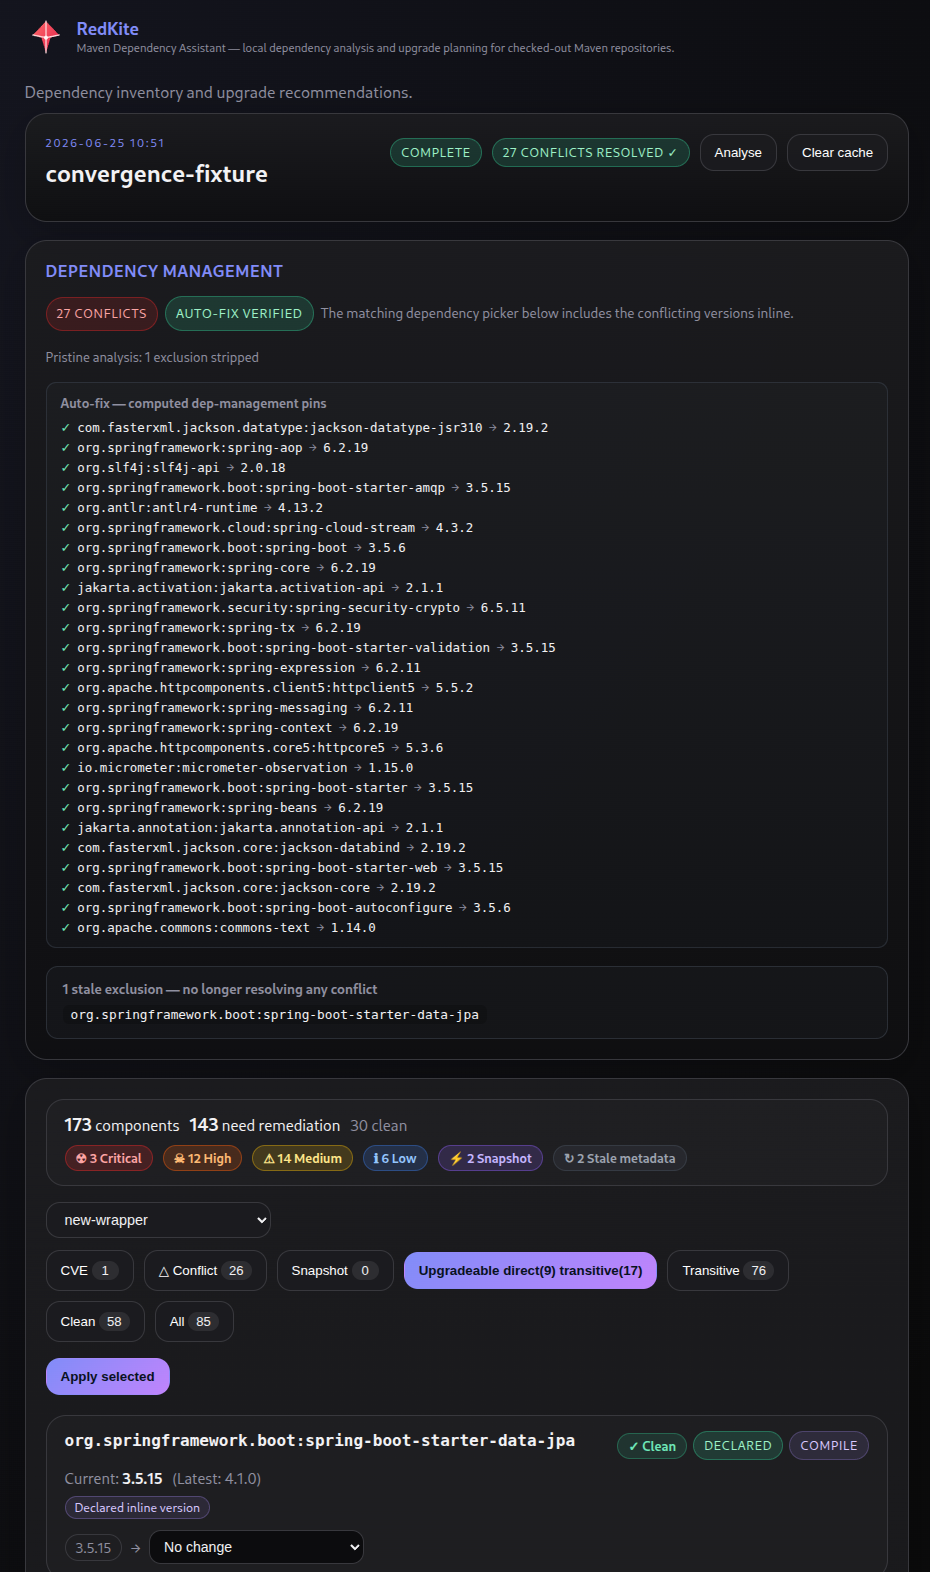
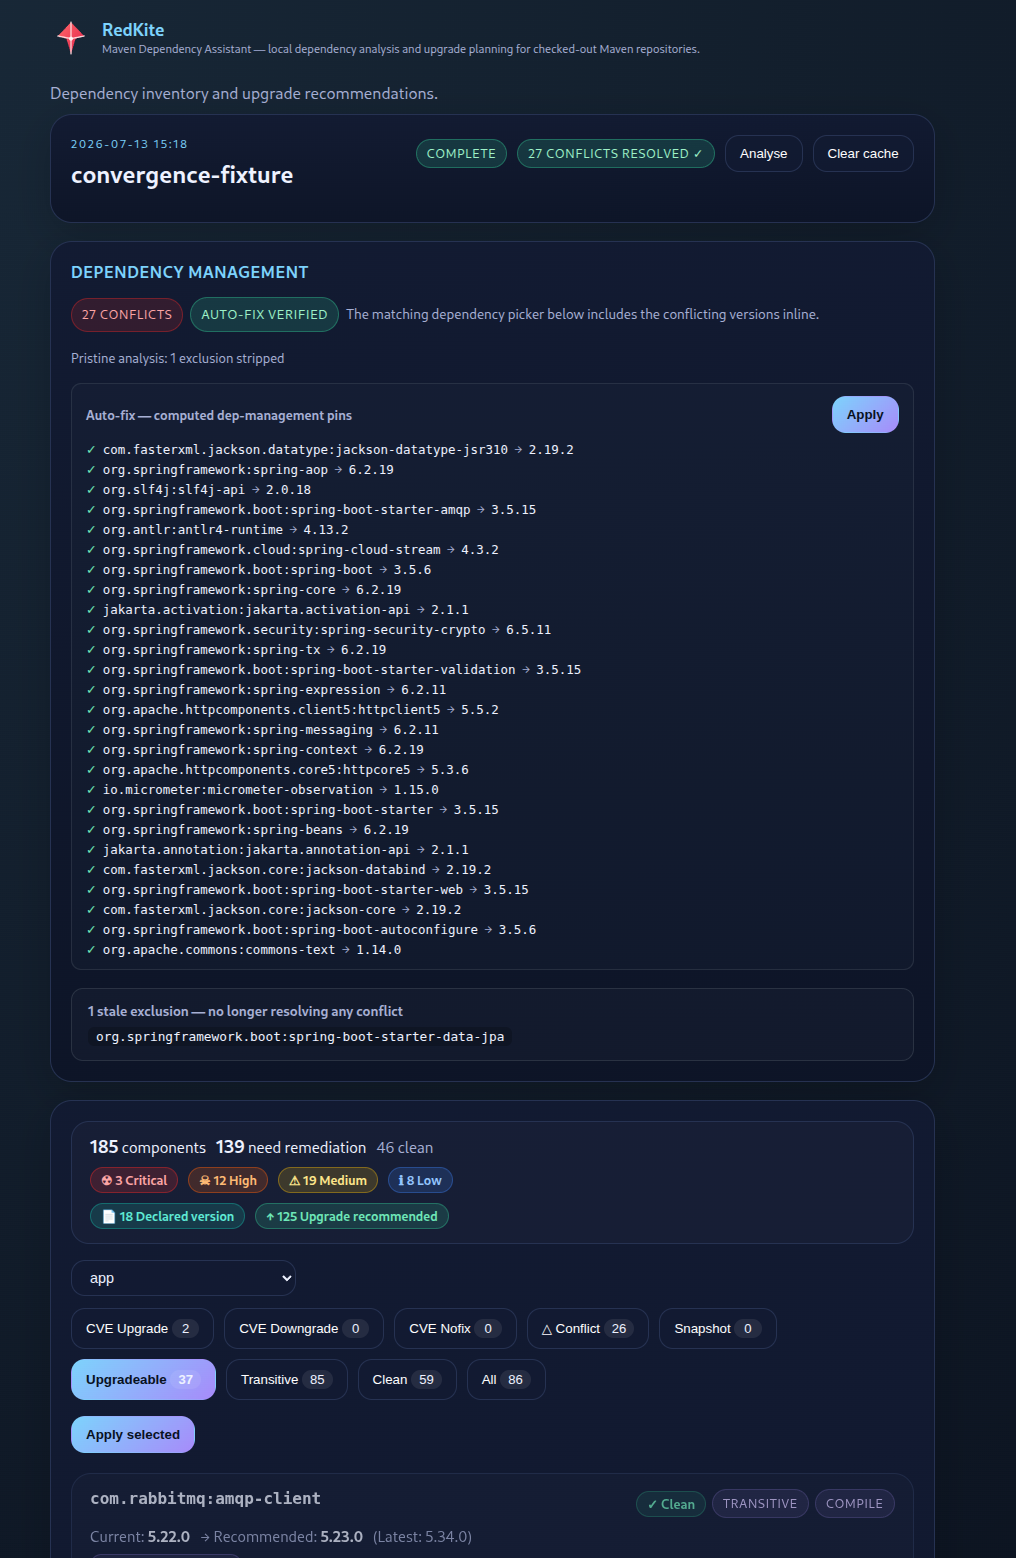
Update docs to match current CVE resolution, config page, and pin behavior
Audit README.md and DESIGN.md against actual server behavior: document
the three-tier CVE fix resolver, the /config TTL page, the renamed
dependency-management pin marker, and the schema/API additions that
came with them. Also note that conflict fixes should be applied before
general upgrades since a pin's target depends on the resolved version.

diff --git a/DESIGN.md b/DESIGN.md
@@ -26,8 +26,8 @@ Domain records and stateless classifiers. No I/O. All records implement `Seriali
 | `ScanInput` | Full project snapshot: all components, edges, POM contents, git metadata |
 | `ScanReport` | Analysis result: components enriched with metadata, recommendations, vulnerability findings |
 | `TransitiveConflictFinding` | One enforcer conflict: coordinates, resolved version, conflicting versions, raw path text |
-| `VulnerabilityFinding` | One OSV advisory: ID, severity, CVEs, affected version, fixed version |
-| `UpgradeRecommendation` | Upgrade target and reason for one component |
+| `VulnerabilityFinding` | One OSV advisory: ID, severity, CVEs, affected version, fixed version, introduced version (lower bound of the range containing the affected version — used to search for a downgrade fix) |
+| `UpgradeRecommendation` | Upgrade target and reason for one component — reason distinguishes an upgrade fix, a downgrade fix, or a best-effort lowest-severity suggestion |
 | `RemediationStatus` | Classification of what action a component needs |
 | `RemediationClassifier` | Stateless classifier: produces `RemediationStatus` from component + findings |
 | `AdvisoryClassifier` | Picks highest severity across a list of `VulnerabilityFinding` |
@@ -43,7 +43,7 @@ All Maven subprocess invocation and POM file manipulation.
 | `EnforcerRunner` | Runs `mvn enforcer:enforce` or falls back to `mvn verify -DskipTests` |
 | `EnforcerDetector` | Detects whether `maven-enforcer-plugin` is configured in the project |
 | `TempPomAnalyzer` | Creates stripped temp POM trees for pristine / phase-2 enforcer runs |
-| `RemediationApplier` | Inserts dep-management pins and exclusions into POM XML with marker comments |
+| `RemediationApplier` | Inserts dep-management pins and exclusions into POM XML with marker comments; pins always use a hardcoded `<version>`, never a `${...}` property |
 | `ValidationRunner` | Runs `mvn clean install -DskipTests -Denforcer.skip=true` (and optionally `spring-boot:run`) to validate a project build |
 | `PomModel` | In-memory representation of a parsed POM |
 | `MavenSettingsReader` | Reads `~/.m2/settings.xml` for repository URLs and credentials |
@@ -55,12 +55,13 @@ External data providers with two-level caching (in-memory + H2).
 | Class | Purpose |
 |---|---|
 | `HttpVersionMetadataProvider` | Fetches `maven-metadata.xml` from Maven Central / Artifactory |
-| `HttpVulnerabilityProvider` | Queries OSV `POST /v1/query`; caches responses for 24 hours |
-| `CacheAwareMetadataService` | Thin orchestrator delegating to both providers |
+| `HttpVulnerabilityProvider` | Queries OSV `POST /v1/query`; caches responses (TTL from `rk_config`, default 24h — see Configurable Cache TTLs) |
+| `CacheTtlConfig` | Reads a cache TTL override from `rk_config` for a given key, falling back to the compiled-in default; read fresh on every call, not cached |
+| `CacheAwareMetadataService` | Thin orchestrator delegating to both providers (currently unused — no call sites) |
 
 ### `red-kite-server`
 
-Single class `RedKiteServerMain` (~4200 lines) containing:
+Single class `RedKiteServerMain` (~5000 lines) containing:
 - HTTP server setup and request routing
 - Scan job orchestration (background thread pool)
 - `Store` inner class: all H2 persistence
@@ -140,12 +141,14 @@ Responses cached for 24 hours in memory and H2.
 
 ### Phase 3 — Upgrade Recommendation
 
-`selectUpgradeTarget()` for each component with upgrade potential:
+Components without a known CVE go through `selectUpgradeTarget()`:
 1. Prefer `latestSameMajorVersion` if it differs from current
-2. Otherwise walk `upgradePathVersions` stopping at a CVE-clean version
+2. Otherwise walk `upgradePathVersions`, picking the closest same-major-minor candidate, else the next candidate
 3. Fall back to `latestVersion` (potentially a major bump)
 
-Reason codes: `CVE_FIX` → `PATCH_AVAILABLE` → `MINOR_AVAILABLE` → `MAJOR_AVAILABLE` → `SNAPSHOT_REPLACEMENT`
+Reason codes: `PATCH_AVAILABLE` / `MINOR_AVAILABLE` / `MAJOR_AVAILABLE` / `SNAPSHOT_REPLACEMENT`
+
+Components with a known CVE go through `resolveCveFix()` instead — a three-tier resolver (see "CVE Fix Resolution" below) that tries an upgrade, then a downgrade, then a bounded best-effort search, verifying each candidate is itself free of unrelated vulnerabilities before recommending it.
 
 `ScanReport` is built and stored (base64 Java serialization in H2).
 
@@ -270,6 +273,8 @@ This produces a stepped upgrade path (e.g. `[2.14.3, 2.15.4, 2.16.2, 2.17.3, 2.1
 
 ### Upgrade Target Selection (`selectUpgradeTarget`)
 
+Used only for components with **no known CVE**.
+
 ```
 if latestSameMajorVersion > currentVersion:
     candidate = latestSameMajorVersion
@@ -278,14 +283,47 @@ else if upgradePathVersions is not empty:
 else:
     candidate = latestVersion              // possibly a major bump
 
-if candidate has CVE vulnerabilities:
-    walk upgradePathVersions looking for a CVE-clean version >= candidate
-    prefer lowest clean version that is still same-major
-
 return UpgradeRecommendation(target=candidate, reason=...)
 ```
 
-Reason codes in priority order: `CVE_FIX` > `PATCH_AVAILABLE` > `MINOR_AVAILABLE` > `MAJOR_AVAILABLE` > `SNAPSHOT_REPLACEMENT`
+Reason codes in priority order: `PATCH_AVAILABLE` > `MINOR_AVAILABLE` > `MAJOR_AVAILABLE` > `SNAPSHOT_REPLACEMENT`
+
+### CVE Fix Resolution (`resolveCveFix`)
+
+Used for components **with** a known CVE, in place of `selectUpgradeTarget`. Three tiers, tried in order, each using data already fetched for the current version (no extra network calls except tier 3):
+
+```
+Tier 1 — Upgrade (RecommendationReason.CVE_FIX):
+    requiredFix = max(fixedVersion across all findings for this component)
+    if any finding has no fixedVersion (open-ended/unbounded advisory):
+        tier fails entirely — an upgrade can never resolve an unbounded CVE
+    else:
+        candidates = available versions >= requiredFix, ascending (closest first)
+        return the first candidate verified live to have ZERO vulnerability
+        findings of its own (not just clear of the original CVE's range)
+
+Tier 2 — Downgrade (RecommendationReason.CVE_FIX_DOWNGRADE):
+    requiredBelow = min(introducedVersion across all findings)
+    if any finding has no introducedVersion (affected since inception):
+        tier fails entirely — no downgrade can escape it
+    else:
+        candidates = available versions < requiredBelow, descending (closest first)
+        return the first candidate verified live to be fully clean
+
+Tier 3 — Best effort (RecommendationReason.CVE_BEST_EFFORT):
+    candidates = nearest ~6 versions above current + nearest 3 below + the true
+                 latest release, live-queried for their own worst severity
+    upgrade candidates are checked before any downgrade candidate, so a tie
+    always resolves toward the upgrade
+    a candidate is accepted only if its severity is no worse than current's;
+    ties are broken toward whichever candidate is closest to current
+    (an upgrade tying current's severity is still worth suggesting — likely
+    carries other unrelated fixes; a downgrade tying current's severity is not,
+    since it's pure downside with no CVE benefit — downgrade ties are rejected)
+    return null if nothing at least as good as current is found (→ CVE Nofix)
+```
+
+The version dropdown's fixability status (`CVE Upgrade` / `CVE Downgrade` / `CVE Nofix` tabs) is derived directly from which tier produced the recommendation, folding `CVE_BEST_EFFORT` into Upgrade or Downgrade by whether its target is above or below the current version — `CVE Nofix` means no recommendation was found at all (tier 3 also failed).
 
 ### Remediation Classification (`RemediationClassifier`)
 
@@ -299,7 +337,9 @@ A component `needsRemediation()` if any of these are true:
 | `hasUpgradeRecommendation` | An `UpgradeRecommendation` exists |
 | `hasStaleMetadata` | Metadata cache is `STALE`, `MISSING`, `ERROR_CACHED`, or provider returned a rate-limit/error status |
 
-**UI override:** Transitive dependencies without HIGH/CRITICAL CVE are force-marked `data-clean="true"` in the UI regardless of `needsRemediation()`, suppressing them from the upgrade tab. Only transitives with HIGH/CRITICAL CVE or an active conflict are surfaced.
+**UI override (`isCardClean`):** A non-conflicted transitive dependency is force-marked `data-clean="true"` regardless of `needsRemediation()` unless it has a *fixable* CVE (a resolved `UpgradeRecommendation` from `resolveCveFix`'s upgrade or downgrade tier — a `CVE_BEST_EFFORT` suggestion does **not** count as fixable here) or is a SNAPSHOT. This is fixability-based, not severity-based — a Low-severity CVE with an available fix is surfaced; a Critical-severity CVE with no available fix is suppressed as noise. Direct dependencies are never suppressed this way.
+
+The remediation panel's filter tabs are: `CVE Upgrade` / `CVE Downgrade` / `CVE Nofix` (mutually exclusive, derived from which `resolveCveFix` tier produced the recommendation — see "CVE Fix Resolution"), `Conflict`, `Snapshot`, `Upgradeable` (a plain, non-CVE `UpgradeRecommendation`), `Transitive`, `Clean`, `All`.
 
 ---
 
@@ -394,14 +434,16 @@ After the enforcer run, RedKite identifies any previously applied RedKite-manage
 ### Applying Remediations
 
 **Dep-management pin** (`RemediationApplier.applyDependencyManagementPin()`):
-- If a `<!-- redkite:dependency-management groupId="..." artifactId="..." ... -->` marker already exists for this artifact, the version in the following `<version>` tag is updated in place
+- Marker format: `<!-- redkite:dependency-management pin groupId="..." artifactId="..." version="..." reason="..." — remove this comment to prevent RedKite managing this dependency -->`. Detection (finding an existing pin to update) matches on the `redkite:dependency-management` prefix without requiring the `pin` suffix, so pins written before that rename are still recognized and updated in place rather than duplicated.
+- If a marker already exists for this artifact, the version in the following `<version>` tag is updated in place
 - Otherwise a new `<dependency>` block is inserted before `</dependencies>` in the existing `<dependencyManagement>`, or a full `<dependencyManagement>` block is inserted before `</project>` if none exists
+- The `<version>` is always a hardcoded literal, never a `${...}` property — `patchPomXml()`'s literal-to-property normalisation pass explicitly skips any `<dependency>` element immediately preceded by this marker comment (`isRedkiteDepMgmtPin`), so applying an unrelated upgrade elsewhere in the POM can't silently convert a pin into a property reference
 
 **Exclusion** (`RemediationApplier.applyExclusion()`):
 - Inserts an `<exclusions>` block inside the matching `<dependency>` entry in `<dependencies>`, tagged with `<!-- redkite:exclusion ... -->` for future stale detection
 
 **POM upgrade** (`patchPomXml()`):
-- For `VersionSource.LITERAL`: normalises the literal `<version>` to a `${artifactId.version}` property reference, then sets the property value
+- For `VersionSource.LITERAL` (excluding RedKite dependency-management pins, see above): normalises the literal `<version>` to a `${artifactId.version}` property reference, then sets the property value
 - For `VersionSource.PROPERTY`: updates the referenced property value directly
 - Uses Java DOM parse + serialise; does not modify unrelated POM structure
 
@@ -478,7 +520,15 @@ rk_version_cache
 rk_vuln_cache
   cache_key varchar PK             ← "groupId:artifactId@version"
   response_json text               ← raw OSV response body
-  expires_at_epoch_ms bigint       ← 24-hour TTL
+  expires_at_epoch_ms bigint       ← TTL from rk_config, default 24h
+
+rk_config
+  config_key varchar PK            ← e.g. "cache.ttl.vulnerability.fresh"
+  config_value varchar             ← minutes, as a string
+  updated_at timestamp
+                                   [seeded with each key's compiled-in default
+                                    on startup, only if the row is missing —
+                                    never overwrites a value set from /config]
 
 metadata_cache_entries             ← per-component metadata log per scan
 provider_rate_limit_state          ← rate-limit tracking (not actively enforced)
@@ -510,6 +560,8 @@ rk_schema_version                  ← migration gate (current: v2)
 | `POST` | `/api/metadata/clear` | Clear version and vulnerability caches |
 | `DELETE` | `/api/projects/{id}` | Delete project and all its scans |
 | `POST` | `/api/prefs` | Save UI preferences (theme) |
+| `GET` | `/config` | Config page: edit cache TTLs (`rk_config`) |
+| `POST` | `/api/config` | Save cache TTL values, redirects back to `/config` |
 
 All endpoints are unauthenticated. The server is intended for local use only.
 
@@ -519,12 +571,15 @@ All endpoints are unauthenticated. The server is intended for local use only.
 
 | Data | In-memory cache | H2 cache | TTL |
 |---|---|---|---|
-| Version metadata | `LinkedHashMap` (unbounded) | `rk_version_cache` | Until `POST /api/metadata/clear` |
-| Vulnerability data | `HashMap` (unbounded) | `rk_vuln_cache` | 24 hours |
+| Version metadata (Maven Central) | `LinkedHashMap` (unbounded) | `rk_version_cache` | configurable via `/config`, default 24h |
+| Version metadata (internal/local repos) | `LinkedHashMap` (unbounded) | `rk_version_cache` | configurable, default 1h — shorter since these can change more frequently |
+| Version metadata (artifact not found) | `LinkedHashMap` (unbounded) | `rk_version_cache` | configurable, default 6h |
+| Version metadata (provider error) | `LinkedHashMap` (unbounded) | `rk_version_cache` | configurable, default 15m |
+| Vulnerability data | `HashMap` (unbounded) | `rk_vuln_cache` | configurable via `/config`, default 24h |
 | Scan results | — | `scans` table | 7 per project |
 | Enforcer results | — | `enforcer_results` | Per scan |
 
-The in-memory cache is checked first on every request. The H2 cache is checked on cache miss. External network calls are made only on H2 miss or TTL expiry.
+`POST /api/metadata/clear` force-clears both caches immediately regardless of TTL. The in-memory cache is checked first on every request. The H2 cache is checked on cache miss. External network calls are made only on H2 miss or TTL expiry. TTL values are read fresh from `rk_config` on every lookup via `CacheTtlConfig` (see `red-kite-metadata`), so a change made on `/config` takes effect on the very next lookup — no restart, no in-memory caching of the TTL setting itself.
 
 ---
 

diff --git a/README.md b/README.md
@@ -14,6 +14,7 @@ It analyses local working copies, builds a dependency inventory, checks Maven Ce
 - fetches and caches version metadata from Maven Central
 - fetches and caches vulnerability data from OSV.dev
 - recommends upgrades grouped by module with per-component version selectors
+- resolves known CVEs in three tiers — an upgrade that clears the vulnerability, a downgrade below where it was introduced if no upgrade fixes it, or a best-effort suggestion at the lowest achievable severity if neither fully resolves it — each verified live so the suggested version doesn't carry an unrelated CVE of its own
 - generates an updated POM preview in-browser — all declared dependencies are normalised to `${artifactId.version}` property references, with upgraded versions set to the selected value
 - keeps all data on the developer machine
 
@@ -76,6 +77,8 @@ A progress overlay shows the current phase. If post-apply validation fails, RedK
 
 Version upgrades normalise any literal `<version>` tag to a `${artifactId.version}` property reference and set the property value to the chosen version. Dep-management pins and exclusions are written directly into the appropriate POM.
 
+Apply conflict fixes (dep-management pins and exclusions) before applying general upgrades. Conflicts pin a dependency to a specific resolved version across modules — applying an unrelated upgrade first can shift what "resolved" means and invalidate the conflict fix, forcing you to re-check convergence after the fact.
+
 Use **Clear cache** to flush the cached version and vulnerability metadata and force a fresh fetch on the next analysis.
 
 ## Configuration
@@ -95,6 +98,10 @@ java -Dredkite.port=8080 -jar red-kite.jar
 | `redkite.prefs.file` | `~/.redkite/preferences.properties` |
 | `redkite.osv.url` | `https://api.osv.dev` |
 | `redkite.version.lookback` | `10` — how many older releases the version-selector dropdown offers below the current version |
+
+### Config Page
+
+The gear icon in the top nav opens `/config`, where the vulnerability and version metadata cache TTLs can be changed at runtime (stored in the database, seeded from the compiled-in defaults on first run) — presets from 15 minutes to 1 day. Changes apply to the next lookup; no restart needed.
 
 ## Build From Source
 
